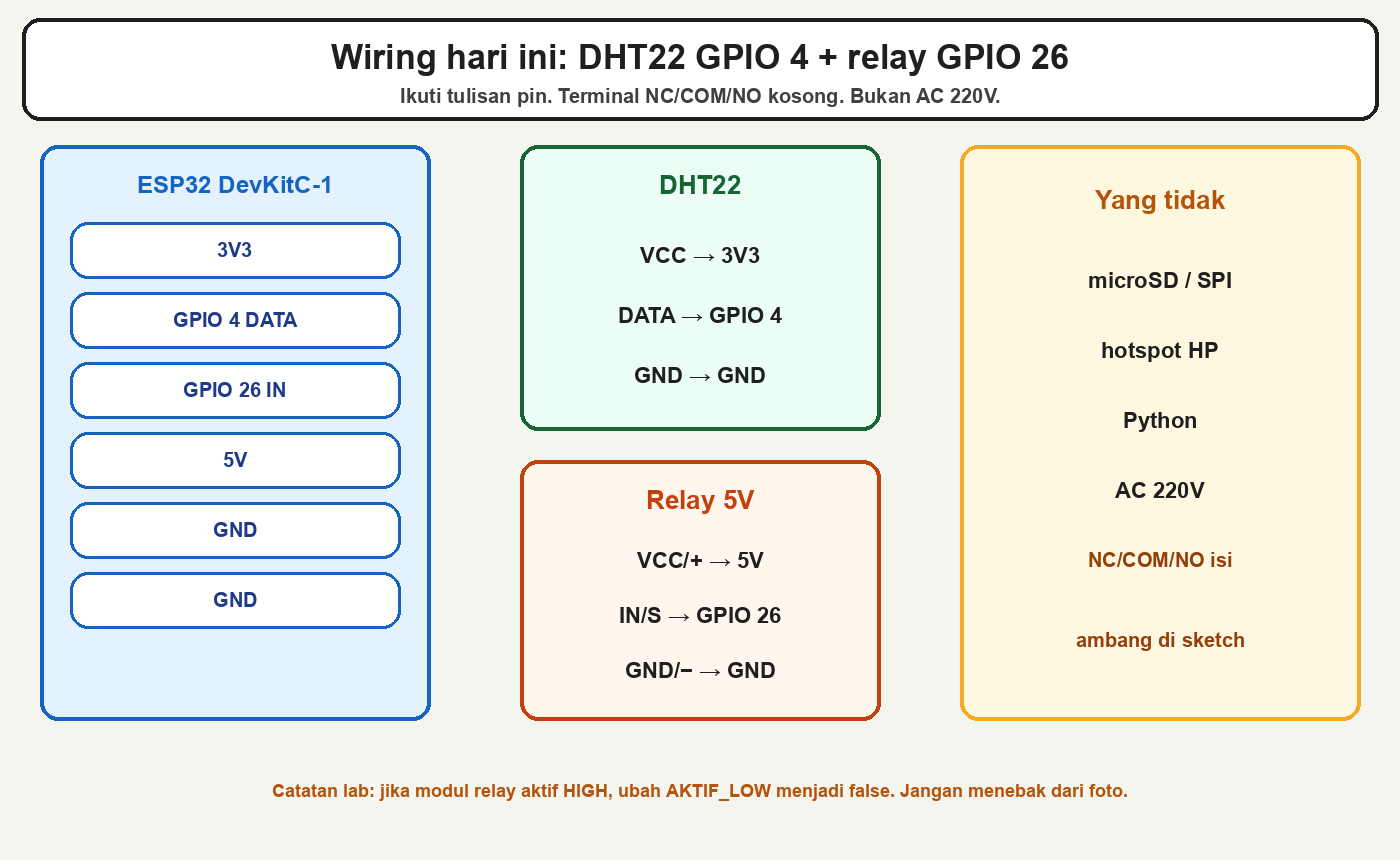
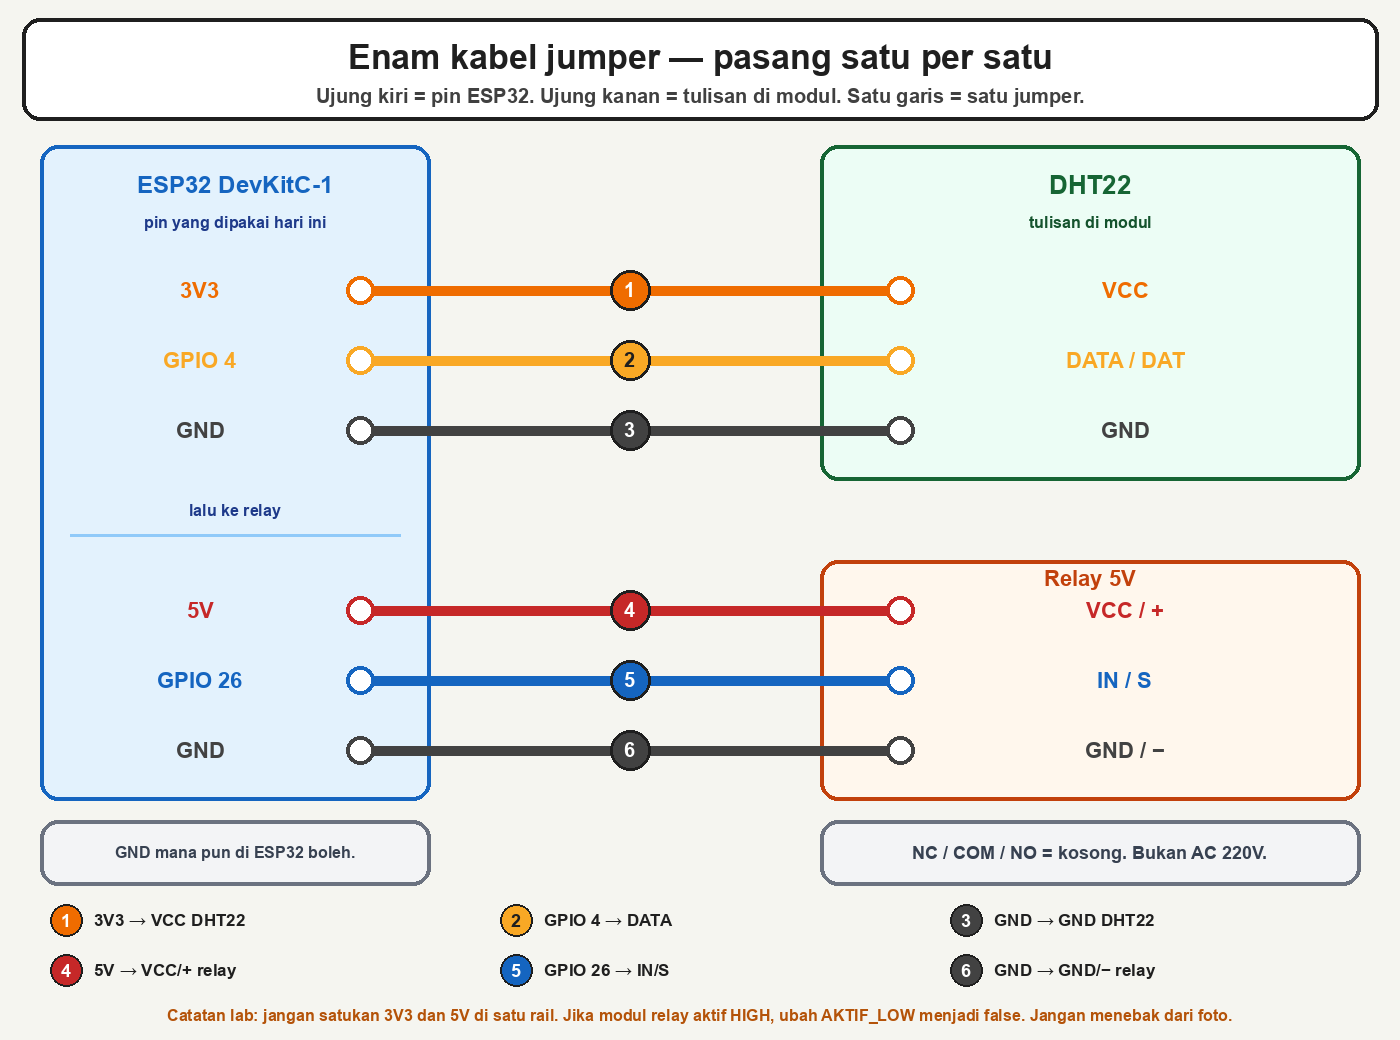
fix(fsiot): show FS-38 jumper wires instead of pin boxes
Beginners could not read three labeled boxes as wiring. Draw six numbered jumpers and match the pin table to cables 1-6.

diff --git a/database/seeders/Article108Seeder.php b/database/seeders/Article108Seeder.php
@@ -274,7 +274,7 @@ class Article108Seeder extends Seeder
         $wifi = $this->figure('fs38-same-wifi.png', 'PC dan ESP32 di Wi-Fi rumah yang sama; Node-RED memakai 127.0.0.1, ESP32 memakai IPv4 PC', '<strong>Satu Wi-Fi rumah.</strong> Demo hotspot FS-37 tidak dipakai hari ini. Node-RED di PC menyambung ke Mosquitto lewat <code>127.0.0.1</code>. ESP32 memakai IPv4 PC, bukan <code>127.0.0.1</code>. Diagram buatan Koding Indonesia (FS-38).');
         $brain = $this->figure('fs38-brain-on-pc.png', 'Perbandingan aturan if suhu di sketch versus switch di Node-RED', '<strong>Firmware patuh. PC yang memutuskan.</strong> Jangan menulis <code>if (suhu &gt; 30)</code> di sketch. Diagram buatan Koding Indonesia (FS-38).');
         $flow = $this->figure('fs38-flow.png', 'Alur kiri ke kanan: DHT22, Mosquitto, Node-RED, lalu relay GPIO 26', '<strong>Gambar utama — alur.</strong> Baca dari kiri ke kanan: suhu → broker → aturan PC → klik relay. Diagram buatan Koding Indonesia (FS-38).');
-        $wiring = $this->figure('fs38-wiring.png', 'Wiring DHT22 GPIO 4 dan relay GPIO 26 ke ESP32, terminal NC COM NO kosong', '<strong>Wiring hari ini.</strong> DHT22: VCC → 3V3, DATA → GPIO 4, GND → GND. Relay 5V: VCC/+ → 5V, IN/S → GPIO 26, GND/− → GND. Terminal NC/COM/NO kosong. <strong>Jangan colok AC 220V.</strong> Diagram buatan Koding Indonesia (FS-38).');
+        $wiring = $this->figure('fs38-wiring.png', 'Enam kabel jumper: DHT22 GPIO 4 dan relay GPIO 26 ke ESP32, terminal NC COM NO kosong', '<strong>Enam kabel jumper — pasang satu per satu.</strong> Setiap garis berwarna adalah satu jumper. Angka 1–3 ke DHT22, angka 4–6 ke relay. DHT22: VCC → 3V3, DATA → GPIO 4, GND → GND. Relay 5V: VCC/+ → 5V, IN/S → GPIO 26, GND/− → GND. Terminal NC/COM/NO kosong. <strong>Jangan colok AC 220V.</strong> Diagram buatan Koding Indonesia (FS-38).');
         $editor = $this->figure('fs38-nodered-editor.png', 'Ilustrasi editor Node-RED: mqtt in telemetry, switch suhu lebih dari 30, change relay on atau off', '<strong>Node-RED sudah menampilkan alur jika-maka.</strong> Buka <code>http://127.0.0.1:1880</code>. Setelah mengubah angka, klik <strong>Deploy</strong>. Ilustrasi buatan Koding Indonesia (FS-38), meniru editor <a href="https://nodered.org/" target="_blank" rel="noopener noreferrer">Node-RED</a> oleh OpenJS Foundation (Apache License 2.0). Screenshot jendela resmi tidak dipakai utuh.');
         $deploy = $this->figure('fs38-threshold-deploy.png', 'Urutan ubah ambang: double-klik switch, ganti angka, klik Deploy di kanan atas, relay berubah tanpa Upload', '<strong>Ubah ambang di Node-RED, lalu Deploy.</strong> Tombol Deploy di <strong>kanan atas</strong> editor, bukan kiri atas seperti Upload Arduino. USB ESP32 tetap colok. Diagram buatan Koding Indonesia (FS-38).');
         $manual = $this->figure('fs38-mqttx-manual.png', 'Ilustrasi MQTTX: lihat telemetri 31.2 lalu publish perintah relay on', '<strong>Jalur cadangan.</strong> Kamu yang jadi otak: lihat suhu di MQTTX, lalu publish JSON perintah. Automasi tetap di Node-RED pada jalur utama. Ilustrasi buatan Koding Indonesia (FS-38), meniru tata letak <a href="https://mqttx.app/" target="_blank" rel="noopener noreferrer">MQTTX oleh EMQ</a> (Apache License 2.0).');
@@ -369,17 +369,18 @@ node-red</code></pre>
 <h2>Pasang kabel — DHT22 dan relay</h2>
 HTML
             .$wiring.$dhtPhoto.$relayPhoto.<<<'HTML'
+<p><strong>Cara baca gambar:</strong> kiri = pin ESP32, kanan = tulisan di modul. Pasang kabel sesuai angka 1 sampai 6. Tabel di bawah mengulang label yang sama.</p>
 <p>Cabut USB ESP32 sebelum merapikan kabel. <strong>Jangan menebak pin.</strong></p>
 <table>
-<thead><tr><th>Tulisan di modul</th><th>GPIO / pin ESP32</th></tr></thead>
+<thead><tr><th>Kabel</th><th>Tulisan di modul</th><th>GPIO / pin ESP32</th></tr></thead>
 <tbody>
-<tr><td>DHT22 VCC</td><td><strong>3V3</strong></td></tr>
-<tr><td>DHT22 DATA atau DAT</td><td><strong>4</strong></td></tr>
-<tr><td>DHT22 GND</td><td>GND</td></tr>
-<tr><td>Relay VCC atau +</td><td><strong>5V</strong></td></tr>
-<tr><td>Relay IN atau S</td><td><strong>26</strong></td></tr>
-<tr><td>Relay GND atau −</td><td>GND</td></tr>
-<tr><td>NC / COM / NO</td><td><strong>kosong</strong></td></tr>
+<tr><td>1</td><td>DHT22 VCC</td><td><strong>3V3</strong></td></tr>
+<tr><td>2</td><td>DHT22 DATA atau DAT</td><td><strong>4</strong></td></tr>
+<tr><td>3</td><td>DHT22 GND</td><td>GND</td></tr>
+<tr><td>4</td><td>Relay VCC atau +</td><td><strong>5V</strong></td></tr>
+<tr><td>5</td><td>Relay IN atau S</td><td><strong>26</strong></td></tr>
+<tr><td>6</td><td>Relay GND atau −</td><td>GND</td></tr>
+<tr><td>—</td><td>NC / COM / NO</td><td><strong>kosong</strong></td></tr>
 </tbody>
 </table>
 <p><strong>Jangan colok AC 220V.</strong> Kartu microSD tidak dipasang hari ini.</p>
@@ -498,7 +499,7 @@ HTML;
         $wifi = $this->figure('fs38-same-wifi.png', 'PC and ESP32 on the same home Wi-Fi; Node-RED uses 127.0.0.1, the ESP32 uses the PC IPv4', '<strong>One home Wi-Fi.</strong> The FS-37 hotspot demo is not used today. Node-RED on the PC talks to Mosquitto at <code>127.0.0.1</code>. The ESP32 uses the PC IPv4, not <code>127.0.0.1</code>. Diagram by Koding Indonesia (FS-38).');
         $brain = $this->figure('fs38-brain-on-pc.png', 'Comparison of an if temperature rule in the sketch versus a switch in Node-RED', '<strong>The firmware obeys. The PC decides.</strong> Do not write <code>if (suhu &gt; 30)</code> in the sketch. Diagram by Koding Indonesia (FS-38).');
         $flow = $this->figure('fs38-flow.png', 'Left-to-right flow: DHT22, Mosquitto, Node-RED, then the GPIO 26 relay', '<strong>Main figure — flow.</strong> Read left to right: temperature → broker → PC rule → relay click. Diagram by Koding Indonesia (FS-38).');
-        $wiring = $this->figure('fs38-wiring.png', 'DHT22 GPIO 4 and relay GPIO 26 wiring to ESP32, NC COM NO terminals empty', '<strong>Wiring today.</strong> DHT22: VCC → 3V3, DATA → GPIO 4, GND → GND. 5V relay: VCC/+ → 5V, IN/S → GPIO 26, GND/− → GND. Leave NC/COM/NO empty. <strong>Do not connect AC mains.</strong> Diagram by Koding Indonesia (FS-38).');
+        $wiring = $this->figure('fs38-wiring.png', 'Six jumper cables: DHT22 GPIO 4 and relay GPIO 26 to ESP32, NC COM NO terminals empty', '<strong>Six jumper cables — fit them one at a time.</strong> Each colored line is one jumper. Numbers 1–3 go to the DHT22, 4–6 to the relay. DHT22: VCC → 3V3, DATA → GPIO 4, GND → GND. 5V relay: VCC/+ → 5V, IN/S → GPIO 26, GND/− → GND. Leave NC/COM/NO empty. <strong>Do not connect AC mains.</strong> Diagram by Koding Indonesia (FS-38).');
         $editor = $this->figure('fs38-nodered-editor.png', 'Node-RED editor illustration: mqtt in telemetry, switch temperature greater than 30, change relay on or off', '<strong>Node-RED is already showing the if-then flow.</strong> Open <code>http://127.0.0.1:1880</code>. After you change the number, click <strong>Deploy</strong>. Illustration by Koding Indonesia (FS-38), modelled on the <a href="https://nodered.org/" target="_blank" rel="noopener noreferrer">Node-RED</a> editor by the OpenJS Foundation (Apache License 2.0). The official window screenshot is not used as-is.');
         $deploy = $this->figure('fs38-threshold-deploy.png', 'Threshold change order: double-click switch, change the number, click Deploy at the top right, relay follows without Upload', '<strong>Change the threshold in Node-RED, then Deploy.</strong> Deploy is at the <strong>top right</strong> of the editor, not the top left like Arduino Upload. Leave ESP32 USB plugged in. Diagram by Koding Indonesia (FS-38).');
         $manual = $this->figure('fs38-mqttx-manual.png', 'MQTTX illustration: see telemetry 31.2 then publish a relay on command', '<strong>Fallback path.</strong> You are the brain: watch temperature in MQTTX, then publish command JSON. Automation still belongs in Node-RED on the main path. Illustration by Koding Indonesia (FS-38), modelled on <a href="https://mqttx.app/" target="_blank" rel="noopener noreferrer">MQTTX by EMQ</a> (Apache License 2.0).');
@@ -593,17 +594,18 @@ node-red</code></pre>
 <h2>Wire the cables — DHT22 and relay</h2>
 HTML
             .$wiring.$dhtPhoto.$relayPhoto.<<<'HTML'
+<p><strong>How to read the figure:</strong> left = ESP32 pin, right = the label on the module. Fit cables in order 1 to 6. The table below repeats the same labels.</p>
 <p>Unplug ESP32 USB before tidying cables. <strong>Do not guess pins.</strong></p>
 <table>
-<thead><tr><th>Label on the module</th><th>ESP32 GPIO / pin</th></tr></thead>
+<thead><tr><th>Cable</th><th>Label on the module</th><th>ESP32 GPIO / pin</th></tr></thead>
 <tbody>
-<tr><td>DHT22 VCC</td><td><strong>3V3</strong></td></tr>
-<tr><td>DHT22 DATA or DAT</td><td><strong>4</strong></td></tr>
-<tr><td>DHT22 GND</td><td>GND</td></tr>
-<tr><td>Relay VCC or +</td><td><strong>5V</strong></td></tr>
-<tr><td>Relay IN or S</td><td><strong>26</strong></td></tr>
-<tr><td>Relay GND or −</td><td>GND</td></tr>
-<tr><td>NC / COM / NO</td><td><strong>empty</strong></td></tr>
+<tr><td>1</td><td>DHT22 VCC</td><td><strong>3V3</strong></td></tr>
+<tr><td>2</td><td>DHT22 DATA or DAT</td><td><strong>4</strong></td></tr>
+<tr><td>3</td><td>DHT22 GND</td><td>GND</td></tr>
+<tr><td>4</td><td>Relay VCC or +</td><td><strong>5V</strong></td></tr>
+<tr><td>5</td><td>Relay IN or S</td><td><strong>26</strong></td></tr>
+<tr><td>6</td><td>Relay GND or −</td><td>GND</td></tr>
+<tr><td>—</td><td>NC / COM / NO</td><td><strong>empty</strong></td></tr>
 </tbody>
 </table>
 <p><strong>Do not connect AC mains.</strong> The microSD card is not fitted today.</p>

diff --git a/scripts/gen-fs38-assets.py b/scripts/gen-fs38-assets.py
@@ -153,34 +153,76 @@ for left in (340, 680, 1020):
 text(draw, 700, 640, 'Catatan lab: MQTTX tetap terbuka supaya kamu melihat telemetri dan status, bukan mengganti Node-RED.', 18, '#b45309')
 save(image, 'fs38-flow.png')
 
-# Combined wiring
-image = Image.new('RGB', (1400, 860), '#f5f5f0')
+def hole(draw, cx, cy, color):
+    draw.ellipse((cx - 14, cy - 14, cx + 14, cy + 14), fill='#ffffff', outline=color, width=4)
+
+
+def jumper(draw, y, color, number, left_x, right_x):
+    draw.line([(left_x, y), (right_x, y)], fill=color, width=10)
+    mx = (left_x + right_x) / 2
+    draw.ellipse((mx - 20, y - 20, mx + 20, y + 20), fill=color, outline='#1f1f1f', width=3)
+    number_fill = '#1f1f1f' if color in ('#f9a825', '#ffe082') else '#ffffff'
+    text(draw, mx, y, str(number), 20, number_fill)
+
+
+# Combined wiring — six jumpers a beginner can follow
+image = Image.new('RGB', (1400, 1040), '#f5f5f0')
 draw = ImageDraw.Draw(image)
-header(draw, 1400, 'Wiring hari ini: DHT22 GPIO 4 + relay GPIO 26', 'Ikuti tulisan pin. Terminal NC/COM/NO kosong. Bukan AC 220V.')
-box(draw, (40, 145, 430, 720), '#e3f2fd', '#1565c0')
+header(draw, 1400, 'Enam kabel jumper — pasang satu per satu', 'Ujung kiri = pin ESP32. Ujung kanan = tulisan di modul. Satu garis = satu jumper.')
+box(draw, (40, 145, 430, 800), '#e3f2fd', '#1565c0')
 text(draw, 235, 185, 'ESP32 DevKitC-1', 24, '#1565c0')
-for y, label in [(250, '3V3'), (320, 'GPIO 4 DATA'), (390, 'GPIO 26 IN'), (460, '5V'), (530, 'GND'), (600, 'GND')]:
-    box(draw, (70, y - 28, 400, y + 28), '#ffffff', '#1565c0', 3)
-    text(draw, 235, y, label, 20, '#1e3a8a')
-box(draw, (520, 145, 880, 430), '#ecfdf5', '#166534')
-text(draw, 700, 185, 'DHT22', 26, '#166534')
-text(draw, 700, 255, 'VCC → 3V3', 22)
-text(draw, 700, 315, 'DATA → GPIO 4', 22)
-text(draw, 700, 375, 'GND → GND', 22)
-box(draw, (520, 460, 880, 720), '#fff7ed', '#c2410c')
-text(draw, 700, 500, 'Relay 5V', 26, '#c2410c')
-text(draw, 700, 560, 'VCC/+ → 5V', 22)
-text(draw, 700, 615, 'IN/S → GPIO 26', 22)
-text(draw, 700, 670, 'GND/− → GND', 22)
-box(draw, (960, 145, 1360, 720), '#fff8e1', '#f9a825')
-text(draw, 1160, 200, 'Yang tidak', 26, '#b45309')
-text(draw, 1160, 280, 'microSD / SPI', 22)
-text(draw, 1160, 350, 'hotspot HP', 22)
-text(draw, 1160, 420, 'Python', 22)
-text(draw, 1160, 490, 'AC 220V', 22)
-text(draw, 1160, 560, 'NC/COM/NO isi', 20, '#92400e')
-text(draw, 1160, 640, 'ambang di sketch', 20, '#92400e')
-text(draw, 700, 790, 'Catatan lab: jika modul relay aktif HIGH, ubah AKTIF_LOW menjadi false. Jangan menebak dari foto.', 18, '#b45309')
+text(draw, 235, 222, 'pin yang dipakai hari ini', 16, '#1e3a8a')
+esp_pins = [
+    (290, '3V3', '#ef6c00'),
+    (360, 'GPIO 4', '#f9a825'),
+    (430, 'GND', '#424242'),
+    (610, '5V', '#c62828'),
+    (680, 'GPIO 26', '#1565c0'),
+    (750, 'GND', '#424242'),
+]
+for y, label, color in esp_pins:
+    text(draw, 200, y, label, 22, color)
+    hole(draw, 360, y, color)
+draw.line([(70, 535), (400, 535)], fill='#90caf9', width=3)
+text(draw, 235, 510, 'lalu ke relay', 16, '#1e3a8a')
+box(draw, (820, 145, 1360, 480), '#ecfdf5', '#166534')
+text(draw, 1090, 185, 'DHT22', 26, '#166534')
+text(draw, 1090, 222, 'tulisan di modul', 16, '#14532d')
+for y, label, color in [(290, 'VCC', '#ef6c00'), (360, 'DATA / DAT', '#f9a825'), (430, 'GND', '#424242')]:
+    hole(draw, 900, y, color)
+    text(draw, 1125, y, label, 22, color)
+box(draw, (820, 560, 1360, 800), '#fff7ed', '#c2410c')
+text(draw, 1090, 578, 'Relay 5V', 22, '#c2410c')
+for y, label, color in [(610, 'VCC / +', '#c62828'), (680, 'IN / S', '#1565c0'), (750, 'GND / −', '#424242')]:
+    hole(draw, 900, y, color)
+    text(draw, 1125, y, label, 22, color)
+for y, color, number in [
+    (290, '#ef6c00', 1),
+    (360, '#f9a825', 2),
+    (430, '#424242', 3),
+    (610, '#c62828', 4),
+    (680, '#1565c0', 5),
+    (750, '#424242', 6),
+]:
+    jumper(draw, y, color, number, 374, 886)
+box(draw, (40, 820, 430, 885), '#f3f4f6', '#6b7280')
+text(draw, 235, 852, 'GND mana pun di ESP32 boleh.', 16, '#374151')
+box(draw, (820, 820, 1360, 885), '#f3f4f6', '#6b7280')
+text(draw, 1090, 852, 'NC / COM / NO = kosong. Bukan AC 220V.', 18, '#374151')
+legend = [
+    (50, 920, 1, '#ef6c00', '3V3 → VCC DHT22'),
+    (500, 920, 2, '#f9a825', 'GPIO 4 → DATA'),
+    (950, 920, 3, '#424242', 'GND → GND DHT22'),
+    (50, 970, 4, '#c62828', '5V → VCC/+ relay'),
+    (500, 970, 5, '#1565c0', 'GPIO 26 → IN/S'),
+    (950, 970, 6, '#424242', 'GND → GND/− relay'),
+]
+for x, y, number, color, label in legend:
+    draw.ellipse((x, y - 16, x + 32, y + 16), fill=color, outline='#1f1f1f', width=2)
+    number_fill = '#1f1f1f' if color in ('#f9a825', '#ffe082') else '#ffffff'
+    text(draw, x + 16, y, str(number), 18, number_fill)
+    draw.text((x + 44, y), label, font=font(17), fill='#1f1f1f', anchor='lm')
+text(draw, 700, 1015, 'Catatan lab: jangan satukan 3V3 dan 5V di satu rail. Jika modul relay aktif HIGH, ubah AKTIF_LOW menjadi false. Jangan menebak dari foto.', 16, '#b45309')
 save(image, 'fs38-wiring.png')
 
 # Node-RED editor illustration

diff --git a/scripts/audit-article108.php b/scripts/audit-article108.php
@@ -92,6 +92,7 @@ check108('glossary heading exists in both languages', str_contains($body, 'Istil
 check108('FAQ and sources headings exist', str_contains($body, 'Pertanyaan yang sering muncul') && str_contains($body, '>Sumber<') && str_contains($bodyEn, 'Frequently asked questions') && str_contains($bodyEn, '>Sources<'));
 check108('nine FS-38 image figures in both languages', substr_count($body, '/images/fsiot/fs38-') === 9 && substr_count($bodyEn, '/images/fsiot/fs38-') === 9);
 check108('Koding Indonesia diagrams attributed', substr_count($body, 'Diagram buatan Koding Indonesia (FS-38)') === 7 && substr_count($body, 'Ilustrasi buatan Koding Indonesia (FS-38)') === 2 && substr_count($bodyEn, 'Diagram by Koding Indonesia (FS-38)') === 7 && substr_count($bodyEn, 'Illustration by Koding Indonesia (FS-38)') === 2);
+check108('wiring figure shows numbered jumpers not pin boxes only', str_contains($body, 'Enam kabel jumper') && str_contains($bodyEn, 'Each colored line is one jumper') && str_contains($assets, 'Satu garis = satu jumper'));
 check108('phone zoom tip exists', str_contains($body, 'Tips ponsel') && str_contains($bodyEn, 'Phone tip'));
 check108('interactive checklist is wired', str_contains($body, 'id="fsiot-rules-checklist"') && str_contains($body, 'id="fsiot-rules-checklist-items"') && str_contains($blade, "storagePrefix: 'fsiot-cl-108'") && str_contains($blade, 'initFsiotRulesChecklist') && str_contains($langId, 'fsiot_rules_badge') && str_contains($langEn, 'fsiot_rules_badge'));
 check108('ten checklist items match in both languages', checklistItems108($body) === 10 && checklistItems108($bodyEn) === 10);
